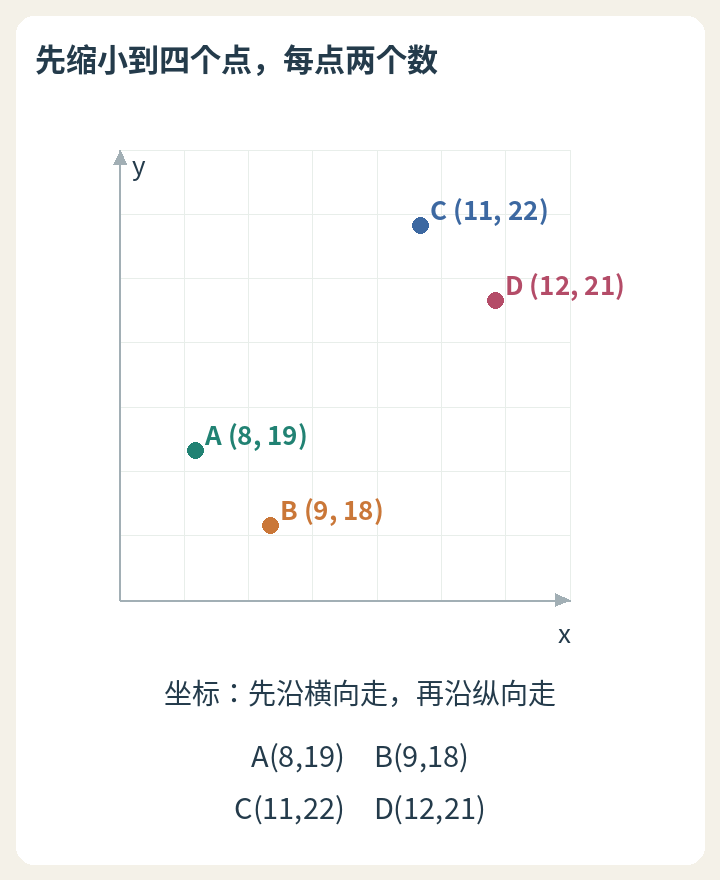
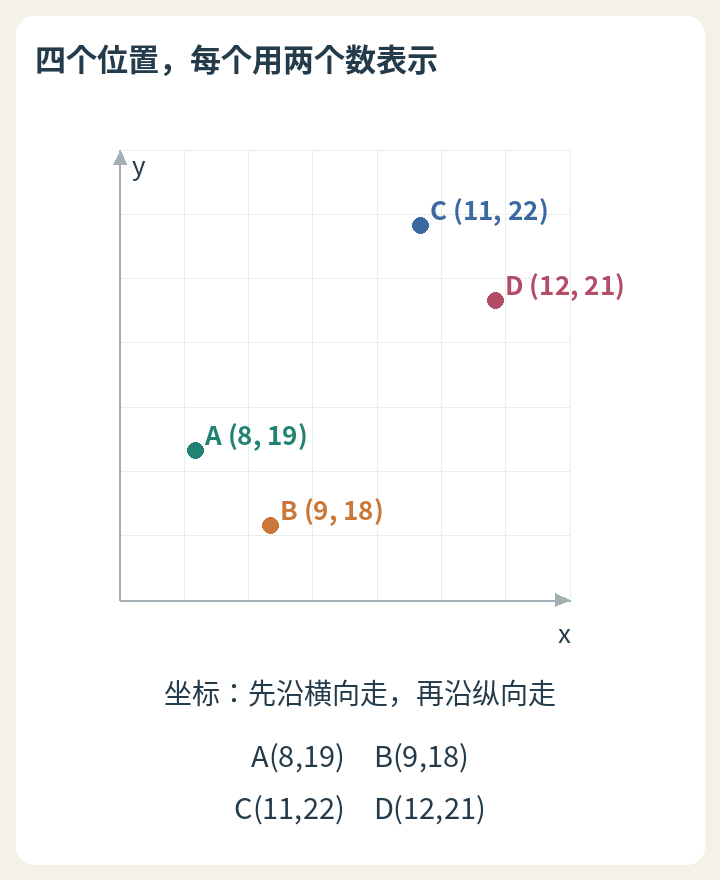
Clarify PCA title and opening for first-time readers

Changed region(s): [[0.0306, 0.0307, 0.6111, 0.092]]

diff --git a/docs/student-exploration-series-2026-10-13.md b/docs/student-exploration-series-2026-10-13.md
@@ -38,7 +38,7 @@
 12. [把词频统计分给一百台机器，最难的是哪一步？](../articles/2026-10-13-mapreduce-gather-same-words/read.md)  
    从十二个词和真实早期机架出发，逐步看映射、归组、搬运、重试与输出选择，弄清多台机器为什么不能只各算一点再相加。
 
-13. [给一团数据拍“影子”，朝哪个方向最少丢东西？](../articles/2026-10-13-pca-choose-shadow/read.md)  
-   四个点只留一个数，怎样少丢一些？从逐点投影算到90%方差，再看红蓝类别为什么仍会混在一起。
+13. [PCA是什么？怎样用更少的数字，保留数据的主要差别](../articles/2026-10-13-pca-choose-shadow/read.md)  
+   从方格纸上的四个位置出发，理解怎样把两个坐标变成一个读数，再算清保留与丢失的差别。
 
 每篇的图片、代码和第三方材料权利以相应来源说明为准。此前系列见[探索系列续篇](student-exploration-series-2026-10-11.md)。
